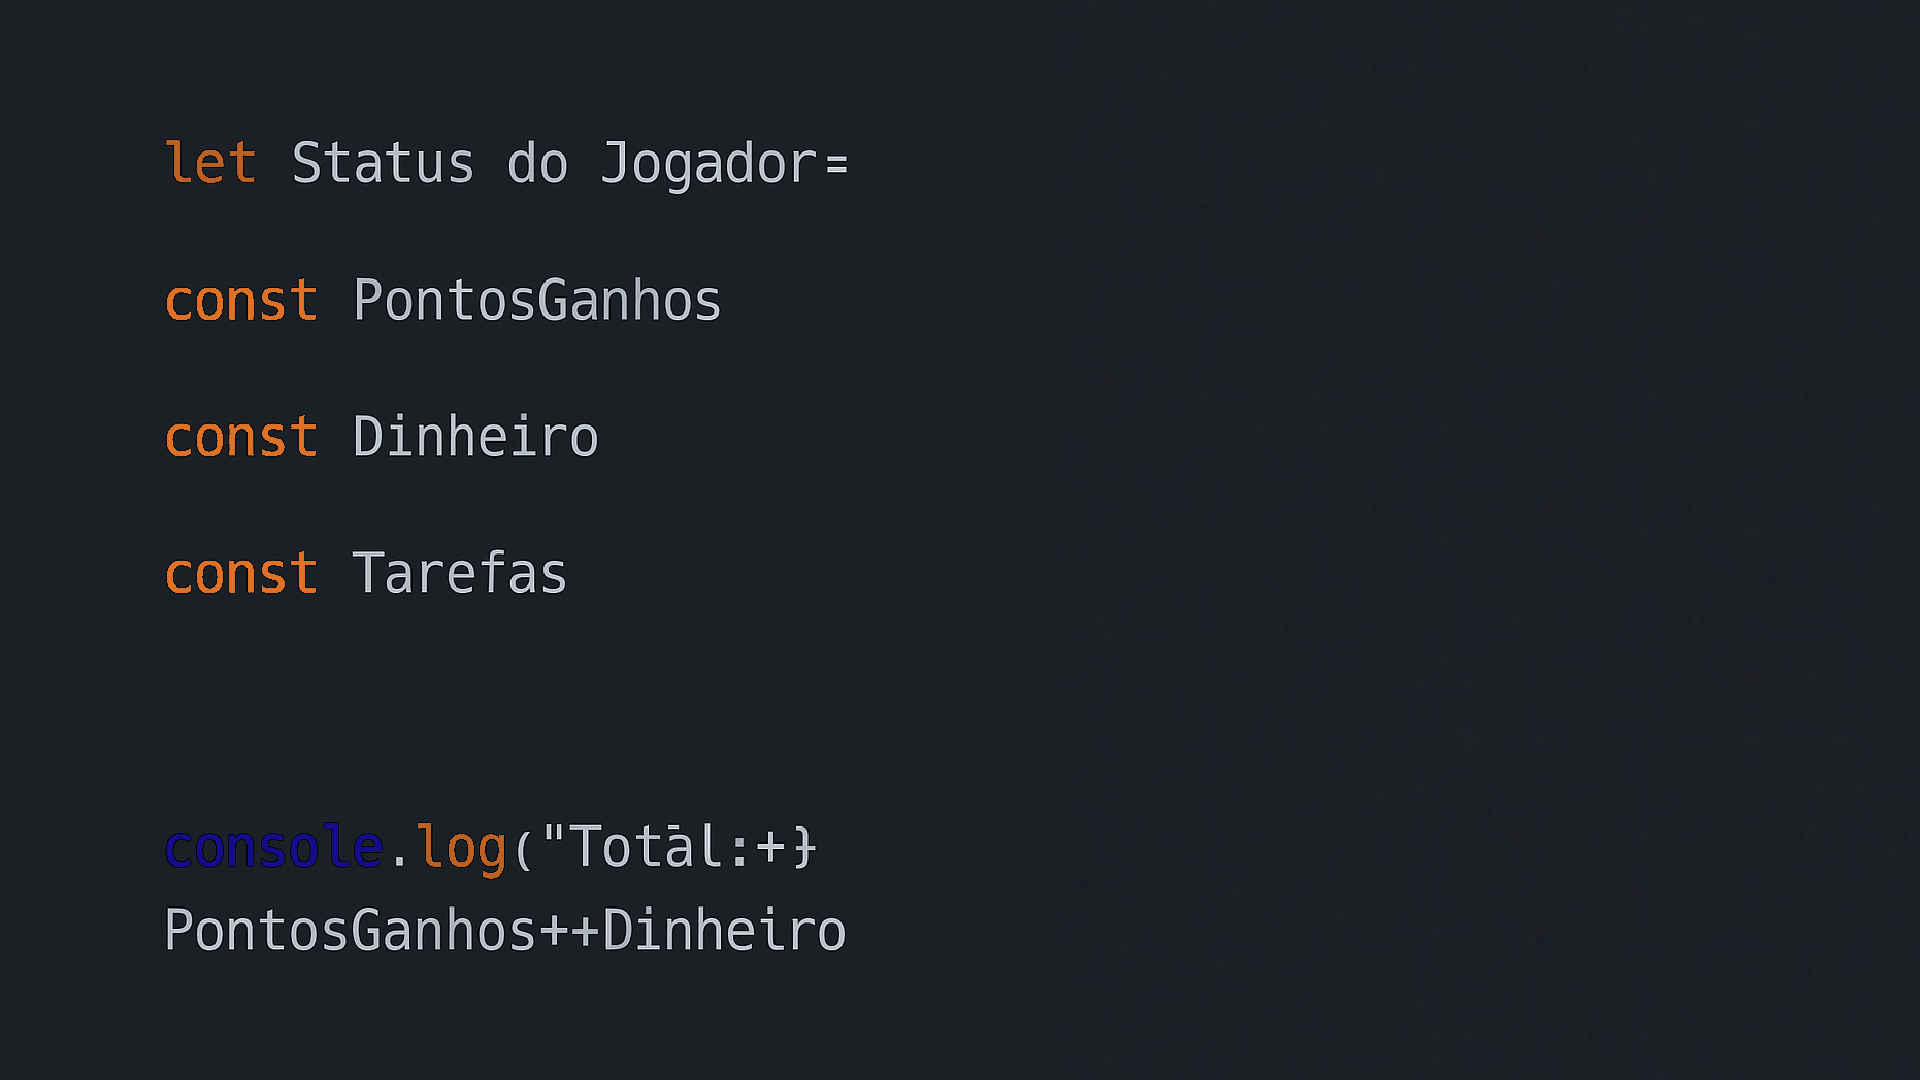
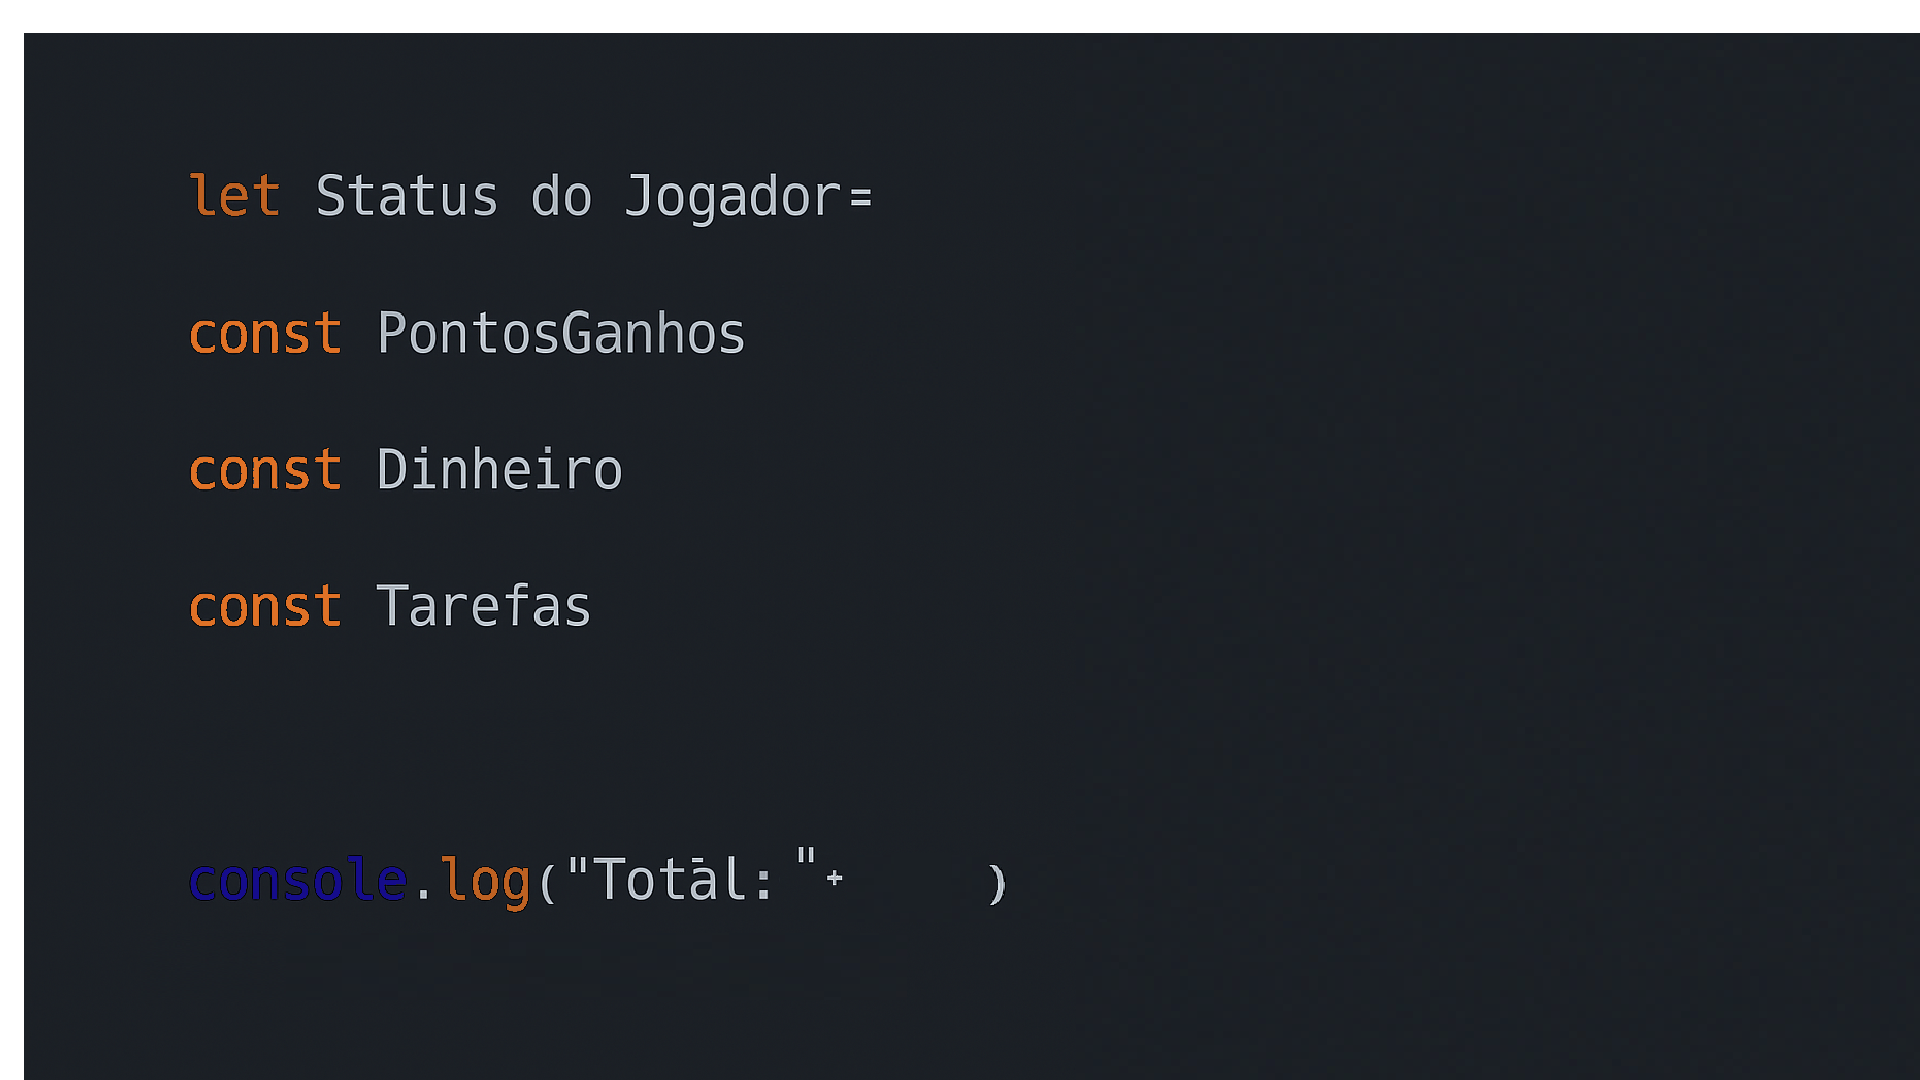
arrumando cena final

diff --git a/CPG-AllOut/Assets/scripts/End.cs b/CPG-AllOut/Assets/scripts/End.cs
@@ -62,7 +62,7 @@ public class End : MonoBehaviour
     IEnumerator MostrarTotal()
     {
         yield return new WaitForSecondsRealtime(0.5f);
-        total.text = "Total: " + ((int)GameData.i.tarefasFeitas + (int)GameData.i.dinheiros + (int)GameData.i.pontos);
+        total.text = ((int)GameData.i.tarefasFeitas + (int)GameData.i.dinheiros + (int)GameData.i.pontos).ToString();
         _audio.Play();
     }
 
